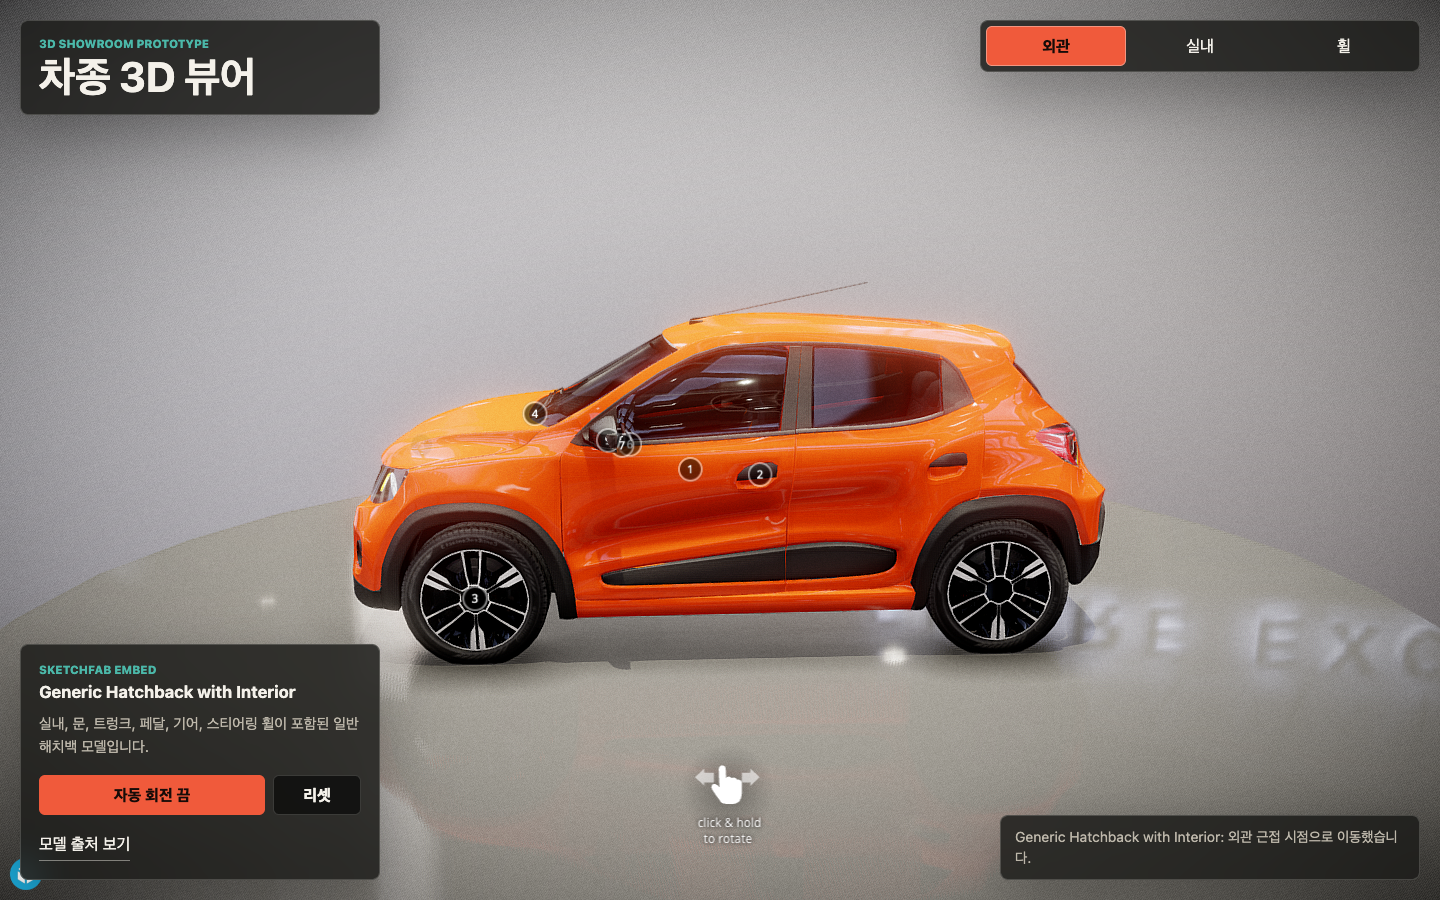
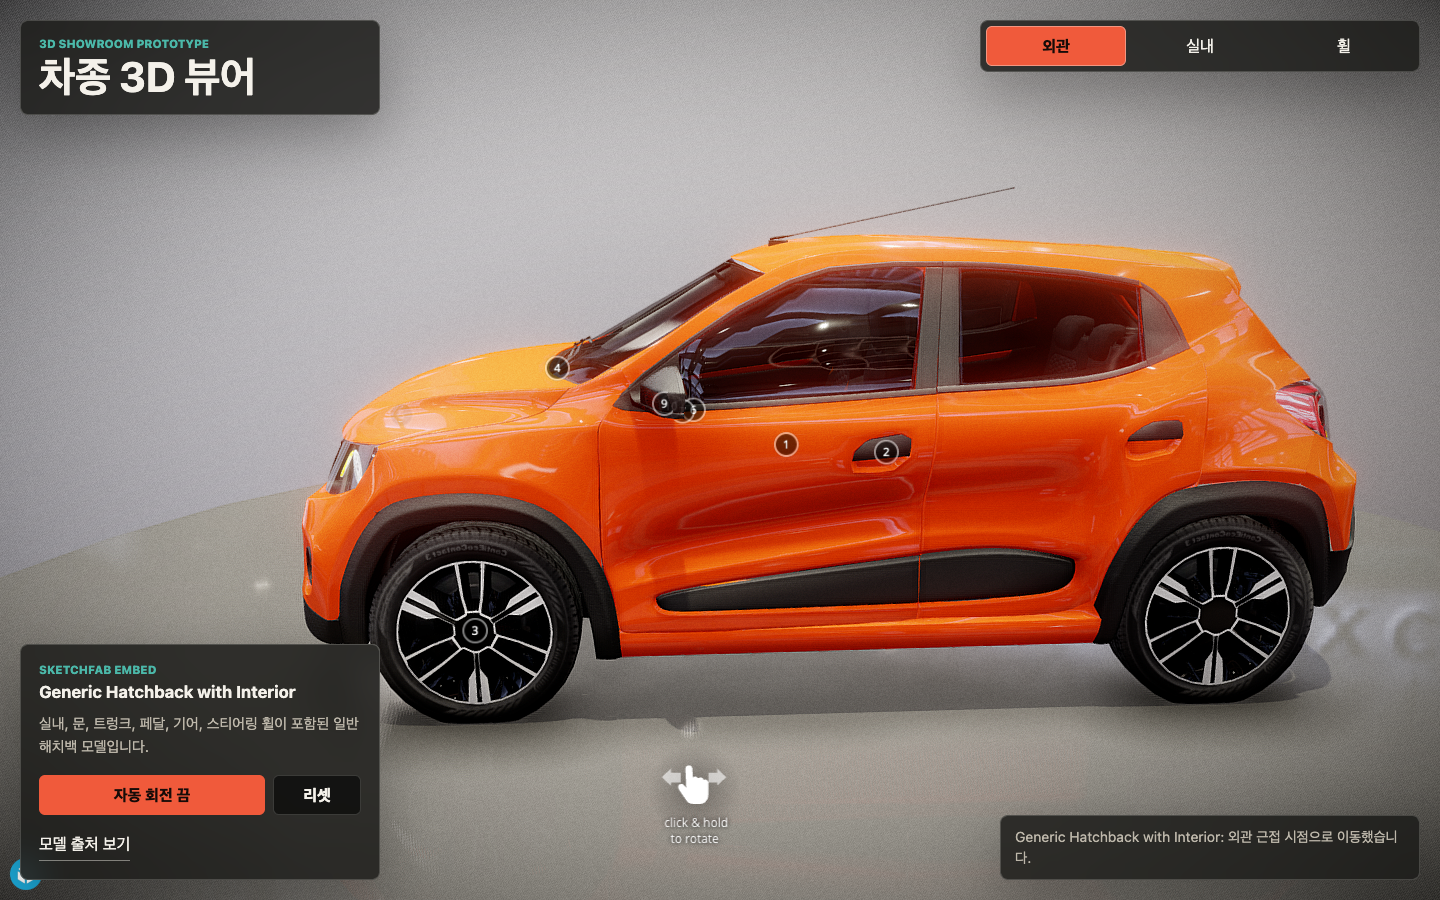
Fix exterior max camera preset

diff --git a/src/main.js b/src/main.js
@@ -28,12 +28,15 @@ const MODEL = {
     interior: ["interior", "steering", "gear", "pedal", "seat"],
     wheel: ["wheel", "tyre", "tire", "rim"],
   },
-  exteriorFit: {
-    desktopBaseScale: 0.07,
-    mobileBaseScale: 0.24,
-    minScale: 0.052,
-    maxScale: 0.14,
-    mobileMaxScale: 0.42,
+  exteriorCamera: {
+    desktop: {
+      position: [3.85, -0.55, 0.88],
+      target: [0.33, -0.34, 0.1],
+    },
+    mobile: {
+      position: [11.5, -0.85, 2.0],
+      target: [0.33, -0.34, 0.1],
+    },
   },
 };
 
@@ -47,10 +50,6 @@ let autoSpin = false;
 let spinAngle = 0;
 let spinTimer = null;
 let resizeTimer = null;
-
-function clamp(value, min, max) {
-  return Math.min(Math.max(value, min), max);
-}
 
 function setStatus(message) {
   statusEl.textContent = message;
@@ -116,44 +115,12 @@ function getAnnotationIndex(viewName) {
   return foundIndex >= 0 ? foundIndex : null;
 }
 
-function getExteriorFitScale() {
-  const { exteriorFit } = MODEL;
-  const { innerWidth: width, innerHeight: height } = window;
-
-  if (width < 700) {
-    const usableHeight = Math.max(height - 420, 220);
-    const heightFactor = clamp(usableHeight / 420, 0.58, 1.15);
-    return clamp(
-      exteriorFit.mobileBaseScale / heightFactor,
-      exteriorFit.minScale,
-      exteriorFit.mobileMaxScale,
-    );
-  }
-
-  const usableWidth = Math.max(width - 480, width * 0.62);
-  const usableHeight = Math.max(height - 280, height * 0.56);
-  const fitFactor = clamp(Math.min(usableWidth / 960, usableHeight / 620), 0.5, 1.45);
-
-  return clamp(
-    exteriorFit.desktopBaseScale / fitFactor,
-    exteriorFit.minScale,
-    exteriorFit.maxScale,
-  );
-}
-
 function getExteriorCamera() {
-  const base =
-    sketchfabDefaultCamera || {
-      position: [7, 3, 7],
-      target: [0, 0.7, 0],
-    };
-  const target = [...base.target];
-  const position = [...base.position];
-  const distanceScale = getExteriorFitScale();
+  const preset = window.innerWidth < 700 ? MODEL.exteriorCamera.mobile : MODEL.exteriorCamera.desktop;
 
   return {
-    target,
-    position: position.map((value, index) => target[index] + (value - target[index]) * distanceScale),
+    position: [...preset.position],
+    target: [...preset.target],
   };
 }
 